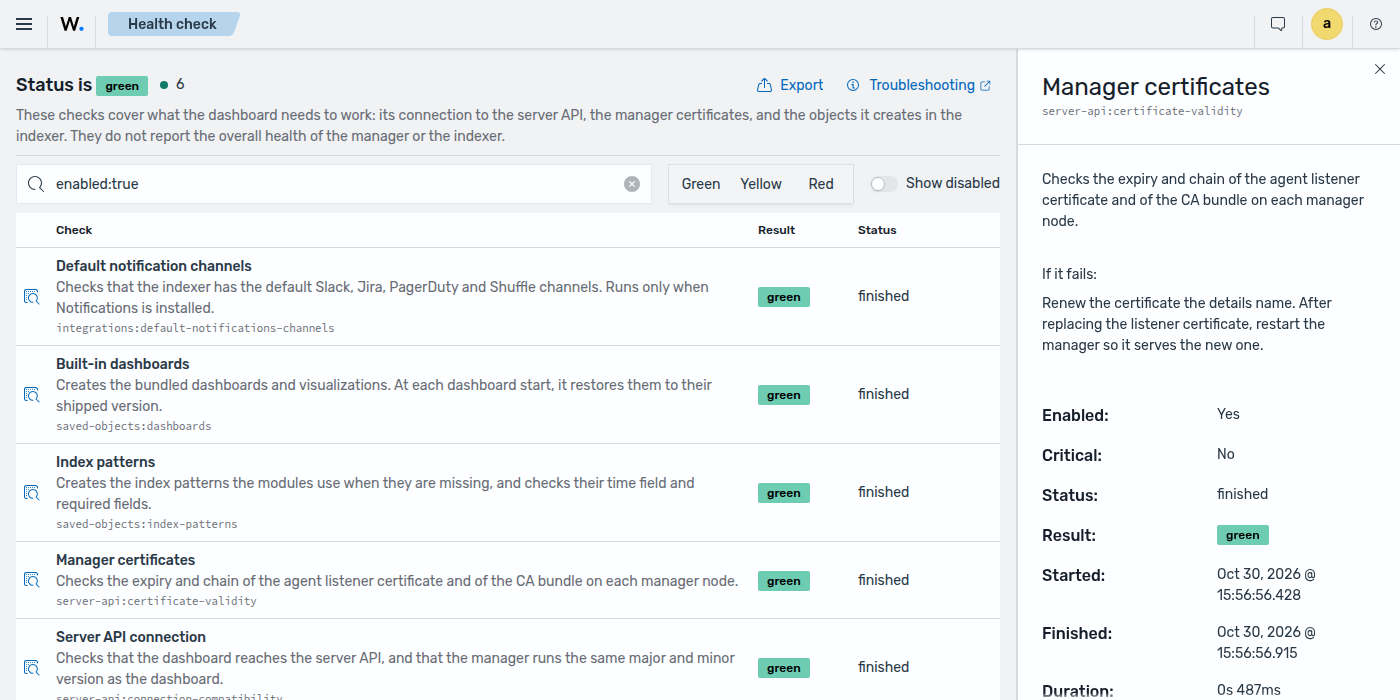
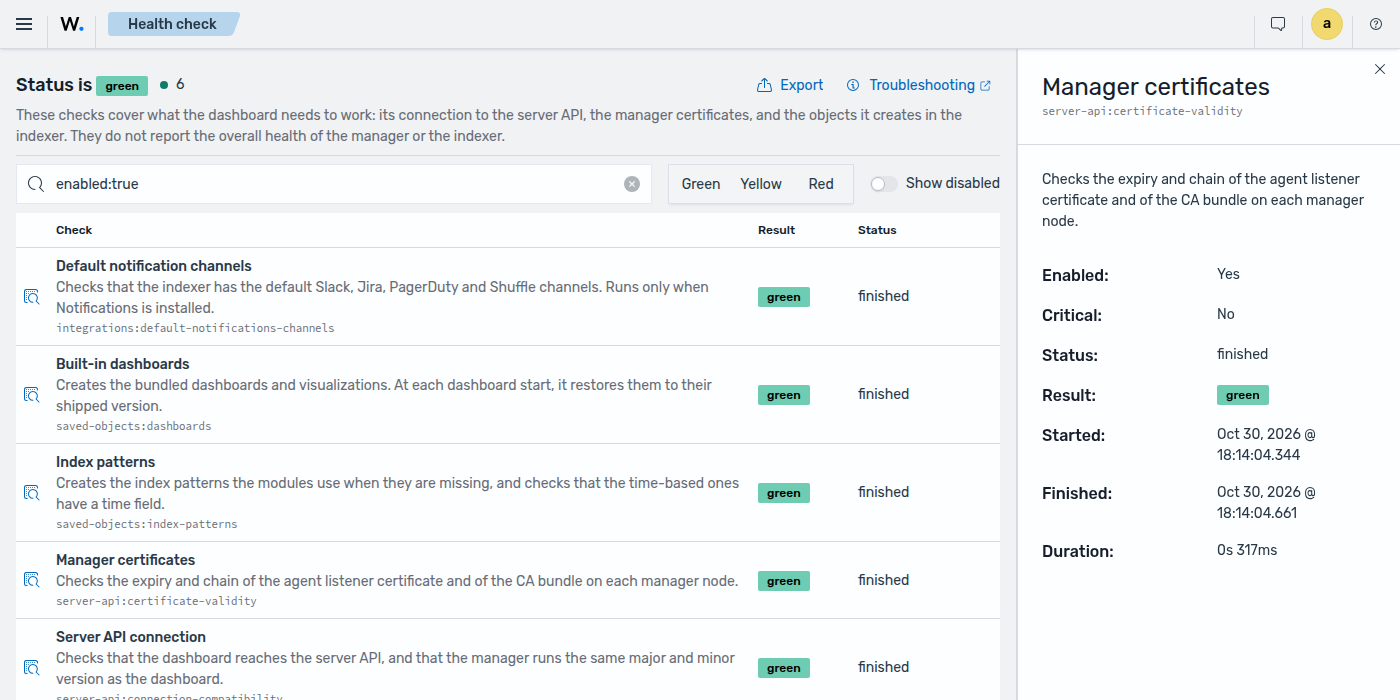
fix(health-check): correct the check texts
Verified each fix on a running stack: index patterns are not checked
against templates, run_as needs a dashboard restart, and the
certificates and connection texts cover every failure the checks report.

diff --git a/plugins/main/public/utils/health-check-descriptions.ts b/plugins/main/public/utils/health-check-descriptions.ts
@@ -32,7 +32,7 @@ export const getHealthCheckDescriptions = (): Record<
       'wazuh.healthCheck.notificationChannels.remediation',
       {
         defaultMessage:
-          'The indexer creates these channels when it starts. Check that its notifications plugin is installed, then restart the indexer to create the missing ones.',
+          'The indexer creates the missing channels when its elected cluster manager node starts. Check that the indexer notifications plugin is installed, then restart that node.',
       },
     ),
   },
@@ -55,11 +55,11 @@ export const getHealthCheckDescriptions = (): Record<
     }),
     description: i18n.translate('wazuh.healthCheck.indexPatterns.description', {
       defaultMessage:
-        'Creates the index patterns the modules use when they are missing, and checks their time field and required fields.',
+        'Creates the index patterns the modules use when they are missing, and checks that the time-based ones have a time field.',
     }),
     remediation: i18n.translate('wazuh.healthCheck.indexPatterns.remediation', {
       defaultMessage:
-        'Check that the indexer is running and has the index templates, then restart the dashboard.',
+        'Check that the indexer is reachable. The details name each failing index pattern. If one has no time field, delete it in Dashboards Management > Index patterns. The next scheduled run creates the missing ones.',
     }),
   },
   [HEALTH_CHECK_TASK_SERVER_API_CONNECTION]: {
@@ -77,7 +77,7 @@ export const getHealthCheckDescriptions = (): Record<
       'wazuh.healthCheck.serverApiConnection.remediation',
       {
         defaultMessage:
-          'Check that the manager is running and reachable at the configured host, and that its version matches the dashboard. See Dashboard management > Server API.',
+          'Check that the manager is running and reachable at the configured host, that the API username and password are right, and that its version matches the dashboard. See Dashboard management > Server API.',
       },
     ),
   },
@@ -89,14 +89,14 @@ export const getHealthCheckDescriptions = (): Record<
       'wazuh.healthCheck.serverApiRunAs.description',
       {
         defaultMessage:
-          "Checks that the server API applies each dashboard user's own permissions (run_as).",
+          "Checks that the dashboard can use run_as, so the server API applies each dashboard user's own permissions.",
       },
     ),
     remediation: i18n.translate(
       'wazuh.healthCheck.serverApiRunAs.remediation',
       {
         defaultMessage:
-          'Set run_as: true for the host in the dashboard configuration, and allow run_as for the API user on the manager.',
+          'If the details say it could not check, fix the Server API connection first. Otherwise, set run_as: true for the host in the dashboard configuration and allow run_as for the API user on the manager. Then restart the dashboard.',
       },
     ),
   },
@@ -115,7 +115,7 @@ export const getHealthCheckDescriptions = (): Record<
       'wazuh.healthCheck.certificateValidity.remediation',
       {
         defaultMessage:
-          'Renew the certificate the details name. After replacing the listener certificate, restart the manager so it serves the new one.',
+          'Follow the action the details give for each certificate. A replaced listener certificate takes effect only after the manager restarts.',
       },
     ),
   },

diff --git a/docs/ref/modules/healthcheck.md b/docs/ref/modules/healthcheck.md
@@ -215,7 +215,7 @@ This displays information about the overall result and checks details. It allows
 
 An introduction under the status says what the checks cover: the connection to the server API, the manager certificates, and the objects the dashboard creates in the indexer. They do not report the overall health of the manager or the indexer.
 
-Each check shows a plain title and a one-line description, with its name below. Its details flyout adds what to do when it fails. The header popover lists failing checks by title. The `main` plugin registers these texts in `public/utils/health-check-descriptions.ts`:
+Each check shows a plain title and a one-line description, with its name below. When a check is yellow or red, its details flyout adds **What to check**. The header popover lists failing checks by title. The `main` plugin registers these texts in `public/utils/health-check-descriptions.ts`:
 
 | Name                                          | Title                         |
 | --------------------------------------------- | ----------------------------- |
